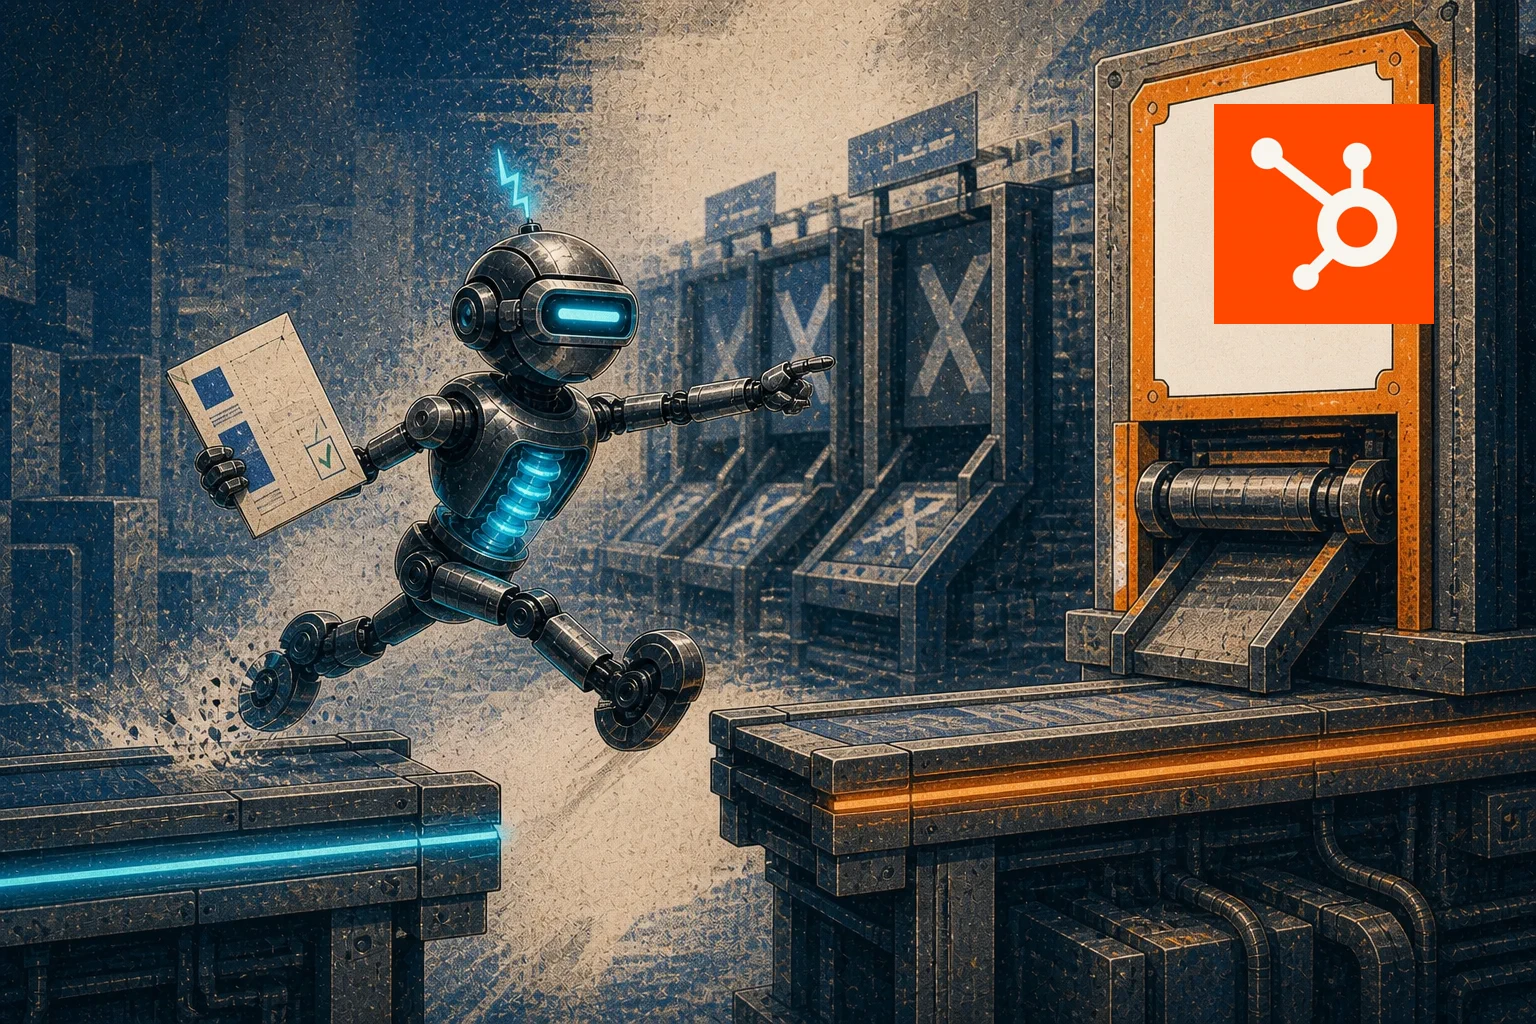
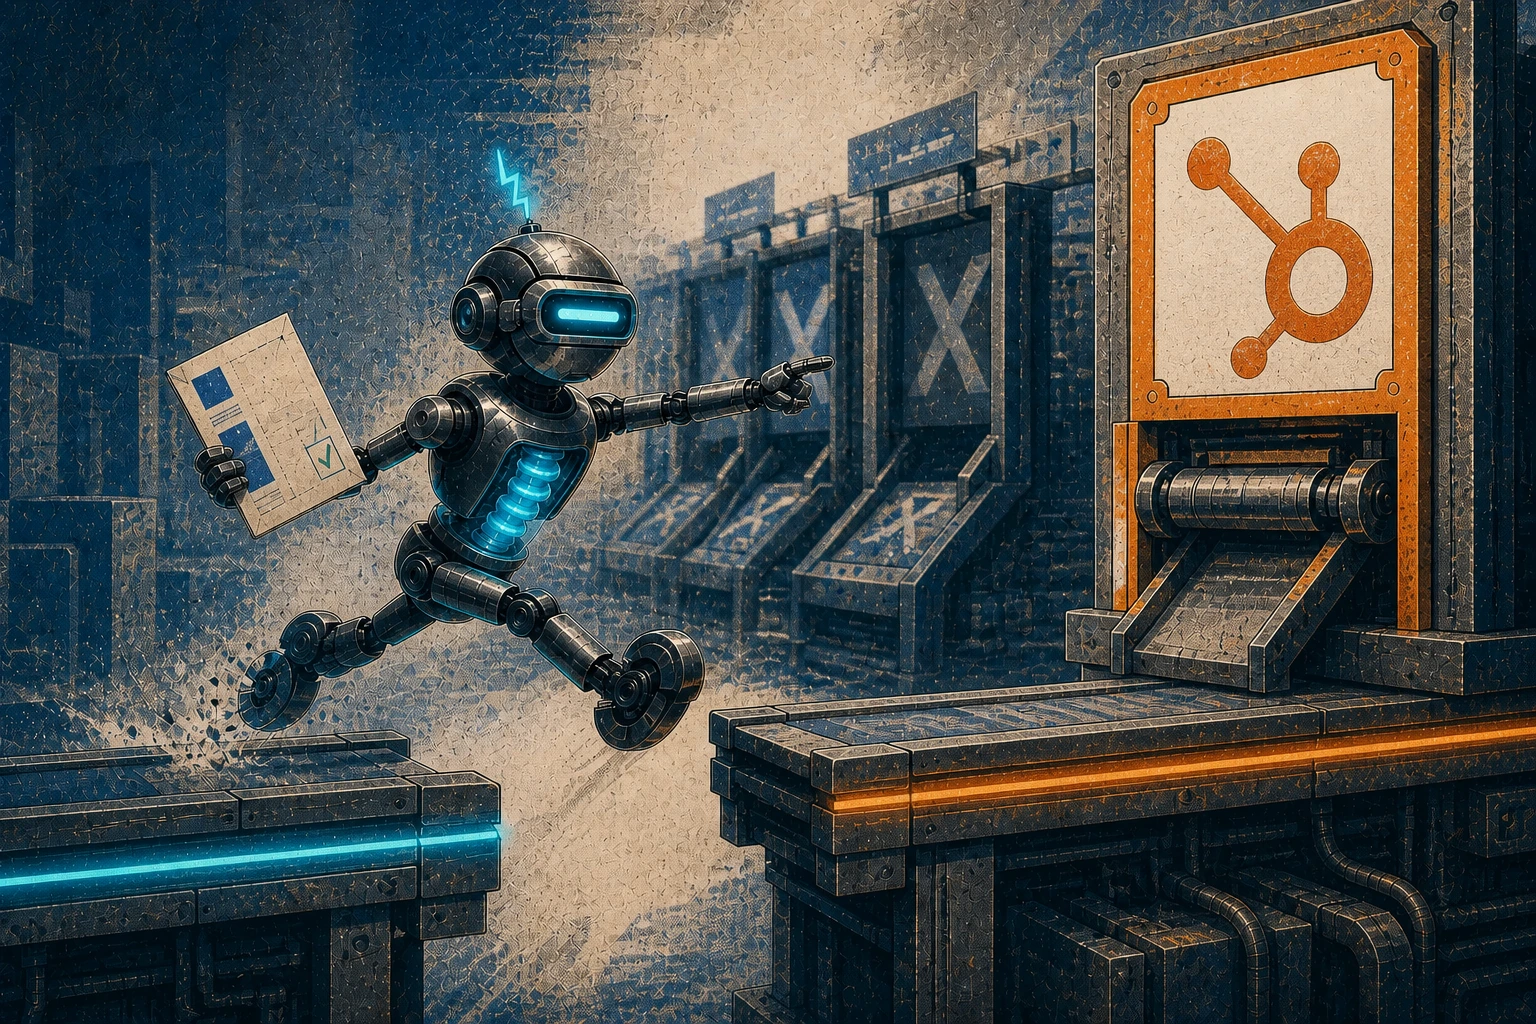
Integrate platform marks and fix heading clipping

diff --git a/immohrtal-marketing-site/public/static-site.css b/immohrtal-marketing-site/public/static-site.css
@@ -34,10 +34,7 @@
 .pressroom-image::after{position:absolute;inset:0;content:"";pointer-events:none;background:linear-gradient(180deg,rgba(255,255,255,.035),transparent 28%,rgba(2,7,17,.18));mix-blend-mode:screen}
 .pressroom-image img{width:100%;height:100%;display:block;object-fit:cover;transition:transform 1.1s var(--ease),filter .8s var(--ease)}
 .pressroom-figure figcaption{max-width:68ch;margin:13px 0 0;color:var(--muted);font:500 .69rem/1.55 var(--mono);letter-spacing:.055em}
-.brand-marks{display:flex;flex-wrap:wrap;gap:8px;margin:12px 0 0;padding:0;list-style:none}
-.brand-marks li{min-height:36px;display:inline-flex;align-items:center;gap:8px;padding:6px 10px;border:1px solid var(--line);border-radius:10px;background:rgba(7,16,31,.74);color:var(--paper);font:650 .68rem/1 var(--body);letter-spacing:0}
-.brand-marks img{width:22px;height:22px;display:block;object-fit:contain;border-radius:5px;background:#fff;padding:3px}
-.tone-paper .brand-marks li,.tone-blue .brand-marks li,.article-shell .brand-marks li{border-color:#b8cbd9;background:#fff;color:var(--dark)}
+.platform-provenance{position:absolute;width:1px;height:1px;padding:0;margin:-1px;overflow:hidden;clip:rect(0,0,0,0);white-space:nowrap;border:0}
 .tone-paper .pressroom-figure figcaption,.tone-blue .pressroom-figure figcaption,.article-shell .pressroom-figure figcaption{color:#40566b}
 .hero-media{grid-column:1/-1;width:min(1180px,100%);margin:clamp(36px,6vw,76px) auto 0}
 .hero-media .pressroom-image{border:1px solid var(--line-strong);box-shadow:0 42px 110px rgba(0,0,0,.46)}
@@ -99,9 +96,15 @@
 .article-row__image img{width:100%;height:100%;object-fit:cover;transition:transform .65s var(--ease)}
 .article-row:hover .article-row__image img{transform:scale(1.045)}
 
-.motion-ready [data-swipe-heading]{overflow:hidden}
+.motion-ready [data-swipe-heading]{overflow:visible}
 .motion-ready [data-swipe-heading] .swipe-word{display:inline-block;transform:translate3d(-.9em,110%,0) rotate(2deg);opacity:0;filter:blur(8px);transition:transform .9s var(--ease),opacity .45s ease,filter .75s ease;transition-delay:calc(var(--word-index)*34ms)}
 .motion-ready [data-swipe-heading].is-visible .swipe-word{transform:none;opacity:1;filter:none}
+
+/* Give wide Unbounded headings room to resolve without clipping or crowding the story. */
+@media(min-width:861px){
+  .section-inner{grid-template-columns:minmax(280px,1.15fr) minmax(0,.85fr)}
+  .section-heading h2{max-width:100%}
+}
 .motion-ready [data-image-reveal] .pressroom-image{clip-path:inset(0 100% 0 0);transform:translateX(-18px);filter:saturate(.55);transition:clip-path 1s var(--ease),transform 1s var(--ease),filter 1s var(--ease)}
 .motion-ready [data-image-reveal].is-visible .pressroom-image{clip-path:inset(0);transform:none;filter:none}
 .motion-ready [data-image-reveal].is-visible img{animation:pressroom-register 1s var(--ease) both}

diff --git a/immohrtal-marketing-site/DESIGN.md b/immohrtal-marketing-site/DESIGN.md
@@ -219,6 +219,13 @@ Hairlines are cool, translucent, and structural. Circular geometry is reserved f
 - **Motion:** Three slow alternate drift paths create a living workflow. They stop effectively under reduced motion.
 - **Integrity:** Illustrative values must be labeled illustrative; real evidence retains source, date, and change caveat.
 
+### Platform Pressroom Artwork
+
+- **Integration:** Google, HubSpot, ChatGPT, Claude, and Perplexity marks belong inside the illustrated artifact as printed paper seals, engraved hardware, worn enamel, or in-scene screens.
+- **Material match:** Every platform mark inherits the artwork's perspective, lighting, occlusion, scratches, halftone grain, paper fibers, and restrained saturation while remaining recognizable.
+- **Presentation:** Platform identity is described semantically in the caption, but never repeated as a detached logo pill, clean app tile, or flat vector sticker around the image.
+- **Integrity:** The marks identify platforms used or discussed in the work and never imply endorsement.
+
 ### Client Particle Sequence
 
 - **Structure:** One persistent WebGL particle field resolves the exact IMMOHRTAL mark in white, runs through 21 verified public-safe marks, bridges to the invitation, and builds “YOU” from the same system.
@@ -255,3 +262,4 @@ Hairlines are cool, translucent, and structural. Circular geometry is reserved f
 - **Don't** make a visitor decode AEO, GEO, entities, schema, bounded agents, or governance language before they understand what improves for their business.
 - **Don't** introduce a new display family, radius step, or shadow vocabulary without updating this system intentionally.
 - **Don't** preserve a former brand name, domain, or attribution merely because a component or asset originated in an earlier implementation.
+- **Don't** paste pristine platform logos over distressed pressroom artwork or place separate logo badges beneath it; build the mark into the scene's physical material instead.
